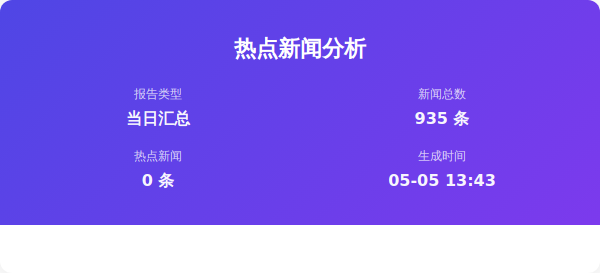
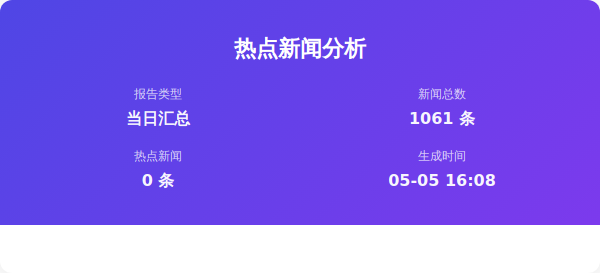
Auto update by GitHub Actions at Tue May  5 16:08:41 CST 2026

Changed region(s): [[0.66, 0.4103, 0.81, 0.4689], [0.75, 0.6447, 0.84, 0.674]]

diff --git a/index.html b/index.html
@@ -357,7 +357,7 @@
                     </div>
                     <div class="info-item">
                         <span class="info-label">新闻总数</span>
-                        <span class="info-value">935 条</span>
+                        <span class="info-value">1061 条</span>
                     </div>
                     <div class="info-item">
                         <span class="info-label">热点新闻</span>
@@ -365,7 +365,7 @@
                     </div>
                     <div class="info-item">
                         <span class="info-label">生成时间</span>
-                        <span class="info-value">05-05 13:43</span>
+                        <span class="info-value">05-05 16:08</span>
                     </div>
                 </div>
             </div>

diff --git a/output/2026年05月05日/html/当日汇总.html b/output/2026年05月05日/html/当日汇总.html
@@ -357,7 +357,7 @@
                     </div>
                     <div class="info-item">
                         <span class="info-label">新闻总数</span>
-                        <span class="info-value">935 条</span>
+                        <span class="info-value">1061 条</span>
                     </div>
                     <div class="info-item">
                         <span class="info-label">热点新闻</span>
@@ -365,7 +365,7 @@
                     </div>
                     <div class="info-item">
                         <span class="info-label">生成时间</span>
-                        <span class="info-value">05-05 13:43</span>
+                        <span class="info-value">05-05 16:08</span>
                     </div>
                 </div>
             </div>